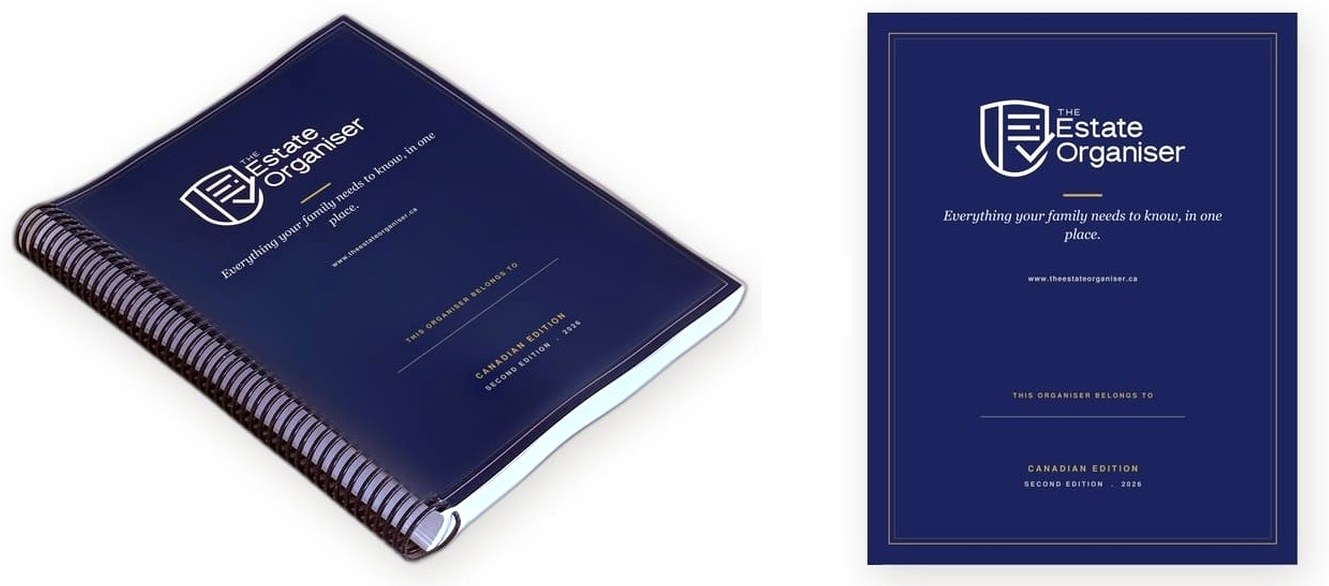
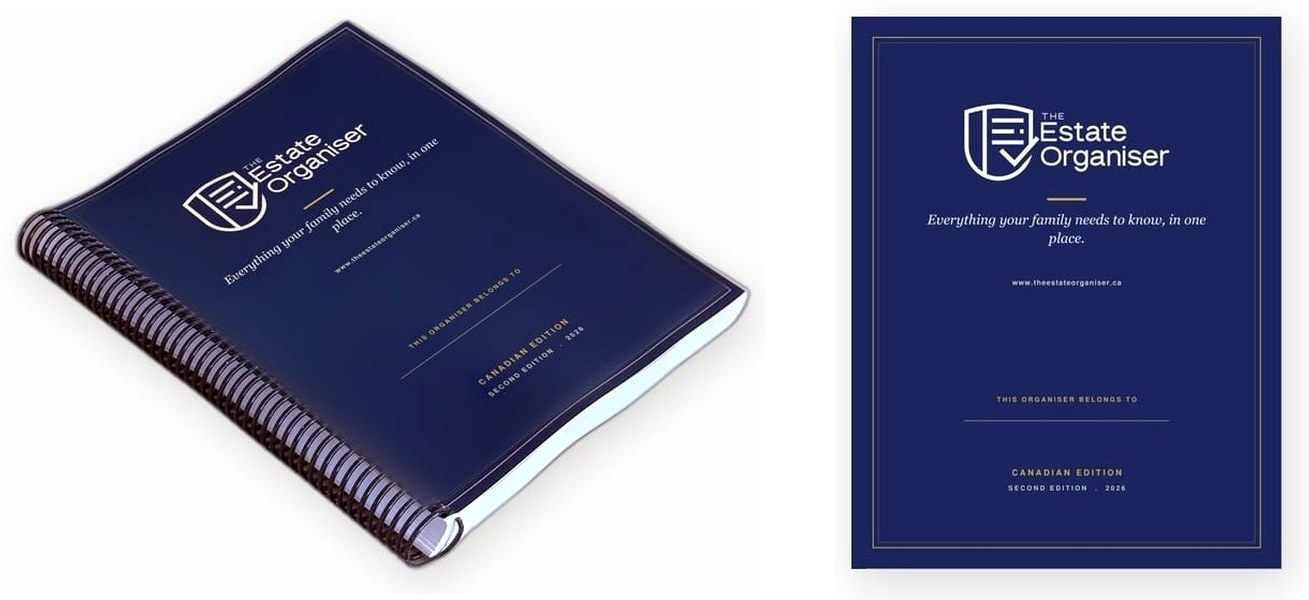
Toolkit: book pictures with a proper gap (no clipped corner); clearer digital and privacy points

diff --git a/toolkit/index.html b/toolkit/index.html
@@ -190,13 +190,13 @@
 <div class="kit-offer" id="kitoffer">
   <p class="kit-eyebrow">Since you're here, one gentle next step</p>
   <h3 class="kit-h">The book that does the whole job</h3>
-  <img class="kit-book" src="/assets/printed-digital-white.jpg" alt="The Estate Organiser, printed book and digital edition" width="1180" height="588" loading="lazy">
+  <img class="kit-book" src="/assets/printed-digital-white.jpg?v=2" alt="The Estate Organiser, printed book and digital edition" width="1309" height="600" loading="lazy">
   <p class="kit-sub">The toolkit helps the person who steps up. The Estate Organiser is the book you fill in now, so they never have to guess: every account, policy, password location and wish, in one place your family can actually find.</p>
   <ul class="kit-list">
     <li>Printed and digital options available.</li>
     <li>Printed: kept safe at home and filled in by hand.</li>
-    <li>Digital: yours to keep, delivered instantly.</li>
-    <li>We never store anything you write in it.</li>
+    <li>Digital: delivered instantly.</li>
+    <li>We never store anything you write in it. It lives on your computer as a PDF file, not on our servers.</li>
   </ul>
   <a class="btn btn-lg kit-go" href="/the-estate-organiser/">See The Estate Organiser</a>
 </div>
@@ -245,7 +245,7 @@
       <hr class="rule">
       <div class="tm-row"><div class="tm-card"><div class="tm-mark">&ldquo;</div><p class="tm-q">All the information in my head right now will not be available to the unlucky sod who has to work out my estate. Your Executor Toolkit can be my way of helping them out.</p><div class="tm-name">Greg</div></div><div class="tm-card"><div class="tm-mark">&ldquo;</div><p class="tm-q">I used to work for lawyers, so Wills were a daily situation. I believe everyone with assets needs one.</p><div class="tm-name">Connie</div></div><div class="tm-card"><div class="tm-mark">&ldquo;</div><p class="tm-q">Practical, with very helpful tips at the beginning of each section. A comprehensive guide to a sensitive but important life issue.</p><div class="tm-name">Pam, 79</div></div><div class="tm-card"><div class="tm-mark">&ldquo;</div><p class="tm-q">A very comprehensive document. I particularly like the explanations as to why a particular action is important.</p><div class="tm-name">Joe, 83</div></div><div class="tm-card"><div class="tm-mark">&ldquo;</div><p class="tm-q">You've given me a way of putting those experiences into easy to navigate and understand instructions for my family. You've done the heavy lifting.</p><div class="tm-name">GE, 71</div></div></div>
       <div style="margin-top:34px;text-align:center"><p style="font-family:Georgia,'Times New Roman',serif;color:#1B2150;font-size:1.4rem;margin-bottom:0">Join them. Start yours today.</p><a class="orgcard" href="/the-estate-organiser/#choose-format">
-  <img src="/assets/printed-digital-white.jpg" alt="The Estate Organiser, printed book and digital edition" width="1180" height="588" loading="lazy">
+  <img src="/assets/printed-digital-white.jpg?v=2" alt="The Estate Organiser, printed book and digital edition" width="1309" height="600" loading="lazy">
   <div class="oc-body">
     <p class="oc-eye">Ready to get your journey organised?</p>
     <h3 class="oc-h">Get The Estate Organiser</h3>
